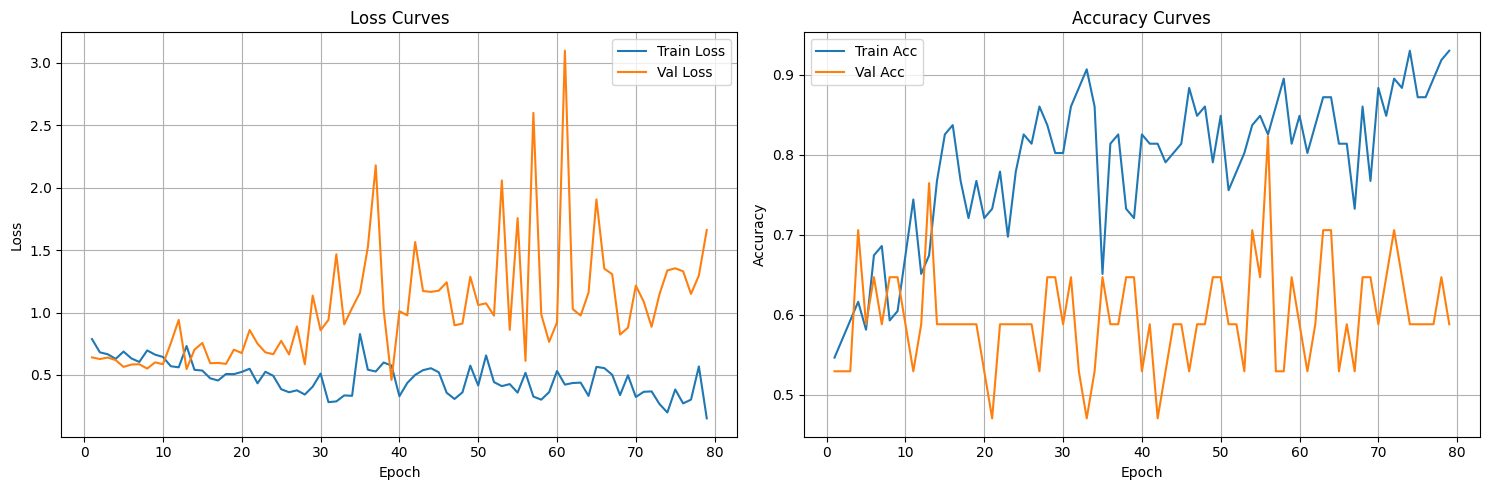
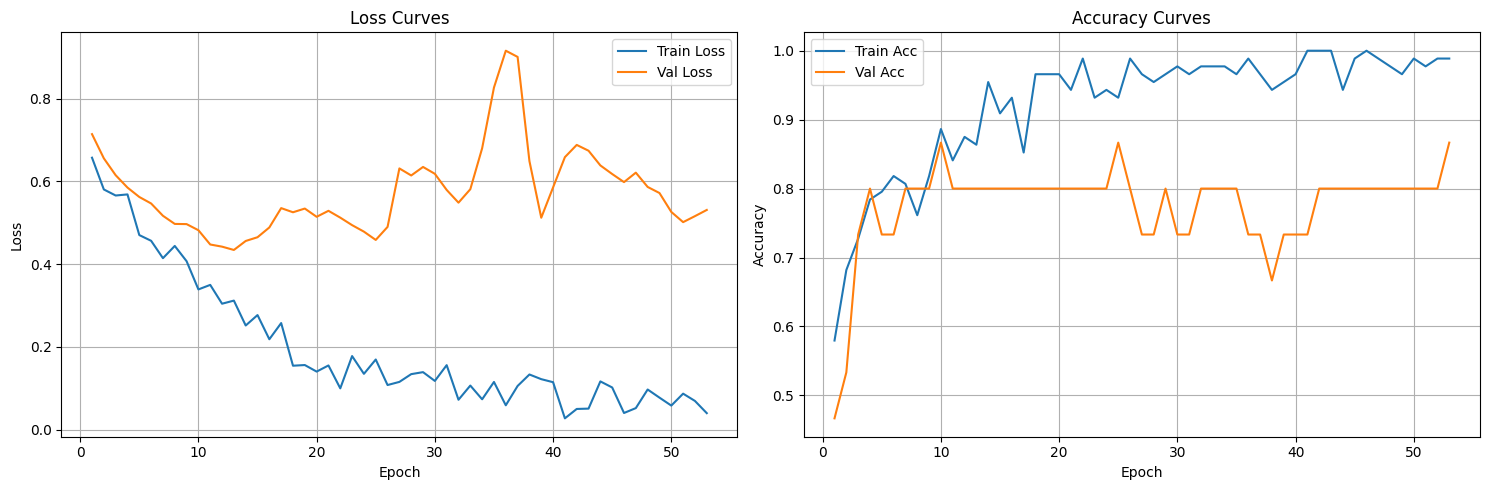
Update learning curves, scripts, and SimCLR pretraining code
- Updated learning curves images for folds 1 to 7.
- Increased delay in submit_all_3c.sh from 30 to 35 minutes.
- Increased delay in submit_all_4c.sh from 38 to 42 minutes.
- Added simclr_pretraining.py script for self-supervised SimCLR encoder training.

diff --git a/simclr_pretraining.py b/simclr_pretraining.py
@@ -1,0 +1,266 @@
+#!/usr/bin/env python3
+"""
+simclr_pretrain.py  –  self-supervised SimCLR encoder training.
+
+Run
+----
+sbatch … python simclr_pretrain.py --yaml configs/simclr_densenet_3c.yaml
+"""
+
+# ───────────────── std libs
+from json import encoder
+import argparse, os, sys, random, time
+from pathlib import Path
+import numpy as np, torch
+from torch import nn
+from torch.utils.data import DataLoader
+import torch.backends.cudnn as cudnn
+from monai.utils.misc import set_determinism
+
+# ───────────────── project path
+PROJ_ROOT = Path(__file__).resolve().parent
+sys.path.insert(0, str(PROJ_ROOT))
+
+# ───────────────── project imports
+from configs.ConfigLoader import ConfigLoader
+from classes.ModelManager import ModelManager
+import utils.transformations_functions as tf
+
+# lightly (SimCLR utilities)
+import time
+import torchvision.transforms.v2 as T
+from lightly.data import LightlyDataset
+from lightly.data.collate import SimCLRCollateFunction
+import pytorch_lightning as pl
+from lightly.loss import NTXentLoss
+import torch.nn as nn
+from pytorch_lightning import Trainer
+from lightly.transforms import SimCLRTransform
+from lightly.models.modules import SimCLRProjectionHead
+from utils.train_functions import LinearProbeHead 
+
+# ───────────────── CLI
+def parse():
+    p = argparse.ArgumentParser()
+    p.add_argument("--yaml", required=True, help="path to YAML with SimCLR block")
+    return p.parse_args()
+
+
+# ───────────────── helper
+def list_unlabeled_images(root: Path, class_names: list[str] = None) -> list[Path]:
+    mip_dir = root / "PRETRAINING_MSA_VS_PD" if "MSA-P" not in class_names else root / "PRETRAINING_MSAP_VS_PD"
+    if subdir:
+        img_dir = mip_dir / subdir
+        paths   = list(img_dir.glob("*.tif"))
+    else:  # scan every class folder
+        paths = [p for p in mip_dir.rglob("*.tif") if p.is_file()]
+    if not paths:
+        raise FileNotFoundError(f"No .tif found under {mip_dir}")
+    return paths
+
+
+# ───────────────── SimCLR LightningModule
+class SimCLRModule(pl.LightningModule):
+    def __init__(self, backbone, emb_dim=64, proj_hidden_dim=512, temperature=0.07, lr=3e-4):
+        super().__init__()
+        self.save_hyperparameters()
+        self.backbone = backbone
+        self.temperature = temperature
+        self.lr = lr
+        
+        ##STRIP ENCODER LINEAR PROBE HEAD
+        backbone_outdim = self._get_projection_head_input_dim()
+        # print(self.backbone)
+        self._remove_linear_probe_head()
+        
+        self.projection_head = SimCLRProjectionHead(
+            input_dim=backbone_outdim,
+            hidden_dim=proj_hidden_dim,
+            output_dim=emb_dim,
+        )
+
+        self.criterion = NTXentLoss(temperature=self.temperature)
+    
+    @property
+    def encoder(self):
+        return self.backbone
+        
+    def _remove_linear_probe_head(self):
+        # if isinstance(self.backbone.fc, LinearProbeHead):
+        # print(self.backbone.fc.__class__.__name__)
+        if hasattr(self.backbone, "fc"):
+            if self.backbone.fc.__class__.__name__ == "LinearProbeHead":
+                self.backbone.fc = nn.Identity()
+            
+        elif hasattr(self.backbone, "classifier"):
+            if self.backbone.classifier.__class__.__name__ == "LinearProbeHead":
+                self.backbone.classifier = nn.Identity()
+        else:
+            raise RuntimeError(
+                    "Could not remove linear probe head"
+                )
+    
+    def _get_projection_head_input_dim(self):
+        """
+        Return the dimensionality of the **feature vector that comes right
+        before the classifier** (the value you must feed into a projection
+        or linear-probe head).
+        
+        """
+        print(f"backbone: {self.backbone}")
+        print(f"hasattr(self.backbone, 'fc'): {hasattr(self.backbone, 'fc')}")
+        print(f"hasattr(self.backbone, 'classifier'): {hasattr(self.backbone, 'classifier')}")
+        print(f"hasattr(self.backbone, 'in_features'): {hasattr(self.backbone.fc, 'in_features')}")
+        
+        if hasattr(self.backbone, "fc") and hasattr(self.backbone.fc, "in_dim"):
+            print(f"backbone.fc.in_features: {self.backbone.fc.in_dim}")
+            if self.backbone.fc.__class__.__name__ == "LinearProbeHead":
+                return self.backbone.fc.in_dim
+            # return self.backbone.fc.in_features
+        elif hasattr(self.backbone, "classifier"):
+            if self.backbone.classifier.__class__.__name__ == "LinearProbeHead":
+                return self.backbone.classifier.in_dim
+            
+        print(f" backbone input dim: {self.backbone.in_dim}")
+        return self.backbone.in_dim
+        
+    def forward(self, x):
+        feats = self.backbone(x).flatten(start_dim=1)
+        z = self.projection_head(feats)
+        return z
+
+    def training_step(self, batch, batch_idx):
+        (x0, x1),_,_ = batch #x0,x1 are tensor of shape (B,C,H,W)
+        z0 = self.forward(x0)
+        z1 = self.forward(x1)
+        loss = self.criterion(z0, z1)
+        self.log("train_loss", loss, on_epoch=True)
+        return loss
+
+    def configure_optimizers(self):
+        # optim = torch.optim.SGD(self.parameters(), lr=self.lr) 
+        optim = torch.optim.Adam(self.parameters(), lr=self.lr,weight_decay=1e-6)
+        return optim
+
+
+
+STABLE_BACKBONE_PATH = PROJ_ROOT + f"simclr_encoder_weights_{num_input_channels}c_{encoder.__class__.__name__}.pth"
+# ───────────────── main
+def main():
+    args = parse()
+    cfg  = ConfigLoader(PROJ_ROOT / args.yaml)
+    
+    print(f"Using configuration: {args.yaml}")
+    class_names        = cfg.get_class_names()
+    print(f"Class names: {class_names}")
+    if class_names is None:
+        raise ValueError("class_names returned None. Please check your configuration.")
+    num_channels       = cfg.get_model_input_channels()
+    pretrained_weights = cfg.get_pretrained_weights()
+    num_epochs         = cfg.get_num_epochs()
+    num_workers        = cfg.get_num_workers()
+    batch_size         = cfg.get_batch_size()
+    num_folds          = cfg.get_num_folds()
+    model_library      = cfg.get_model_library()
+
+    print(f"Number of channels: {num_channels}")
+    print(f"Pretrained weights: {pretrained_weights}")
+    print(f"Number of epochs: {num_epochs}")
+    print(f"Number of workers: {num_workers}")
+    print(f"Batch size: {batch_size}")
+    print(f"Number of folds: {num_folds}")
+    print(f"Model library: {model_library}")
+
+    # reproducibility
+    SEED = 42
+    torch.manual_seed(SEED)
+    random.seed(SEED)
+    np.random.seed(SEED)
+    set_determinism(SEED)
+    cudnn.deterministic, cudnn.benchmark = True, False
+
+    # images ----------------------------------------------------------------
+    data_root = Path(os.environ["DATA_ROOT"])
+    img_paths = list_unlabeled_images(
+        data_root, class_names=class_names
+    )
+    
+    print(f"Found {len(img_paths):,} unlabeled images")
+
+    # dataset / dataloader --------------------------------------------------
+    transform = SimCLRTransform(
+        input_size=256,
+        gaussian_blur=0.5,  # probability of applying blur
+        random_gray_scale=0.2,  # probability of grayscale
+        cj_strength=0.4,  # color jitter strength
+        vf_prob=0.5,
+        hf_prob=0.5,
+        rr_prob=0.5,
+        rr_degrees=180,
+    )
+    
+    dataset = LightlyDataset(
+        input_dir=ssl_input_dir,
+        transform=transform
+    )
+
+    # collate_fn = SimCLRCollateFunction(input_size=256)
+    print("len of dataset")
+    print(len(dataset)) 
+
+    loader = torch.utils.data.DataLoader(
+        dataset,
+        batch_size = len(dataset),
+        shuffle=True,
+        # collate_fn=collate_fn,
+        drop_last=True,
+        num_workers=2
+    )
+
+    # backbone architecture definition --------------------------------------------------------------
+    encoder, device = model_manager.setup_model(num_classes=num_classes, pretrained_weights=pretrained_weights)
+    # backbone, device = model_manager.setup_model(
+    #     num_classes=mdl_cfg["proj_hidden_dim"],  # dummy
+    #     pretrained_weights=None,
+    #     remove_linear_head=True,                 # keep pure feature extractor
+    # )
+    
+    backbone = backbone.to(device)
+
+    # detect encoder output dim
+    with torch.no_grad():
+        dummy  = torch.zeros(1, mdl_cfg["in_channels"], 256, 256).to(device)
+        feat_dim = backbone(dummy).flatten(1).shape[1]
+
+    # lightning module + trainer -------------------------------------------
+    module = SimCLRModule(
+        backbone=backbone,
+        in_dim=feat_dim,
+        proj_hidden_dim=mdl_cfg["proj_hidden_dim"],
+        proj_out_dim=mdl_cfg["proj_output_dim"],
+        lr=tr_cfg["lr"],
+        temperature=tr_cfg["temperature"],
+    )
+
+    trainer = pl.Trainer(
+        accelerator="gpu" if torch.cuda.is_available() else "cpu",
+        devices=1,
+        max_epochs=tr_cfg["num_epochs"],
+        precision="16-mixed",
+        enable_progress_bar=True,
+        log_every_n_steps=10,
+    )
+
+    print("⚙  Starting SimCLR pre-training …")
+    t0 = time.time()
+    trainer.fit(module, loader)
+    print(f"✓ Finished in {(time.time()-t0)/60:.1f} minutes")
+
+    # save encoder ----------------------------------------------------------
+    weights_path = Path(out_cfg["weights_path"]).expanduser()
+    weights_path.parent.mkdir(parents=True, exist_ok=True)
+    torch.save(module.encoder.state_dict(), weights_path)
+    print(f"✓ Encoder weights saved to: {weights_path}")
+
+if __name__ == "__main__":
+    main()
